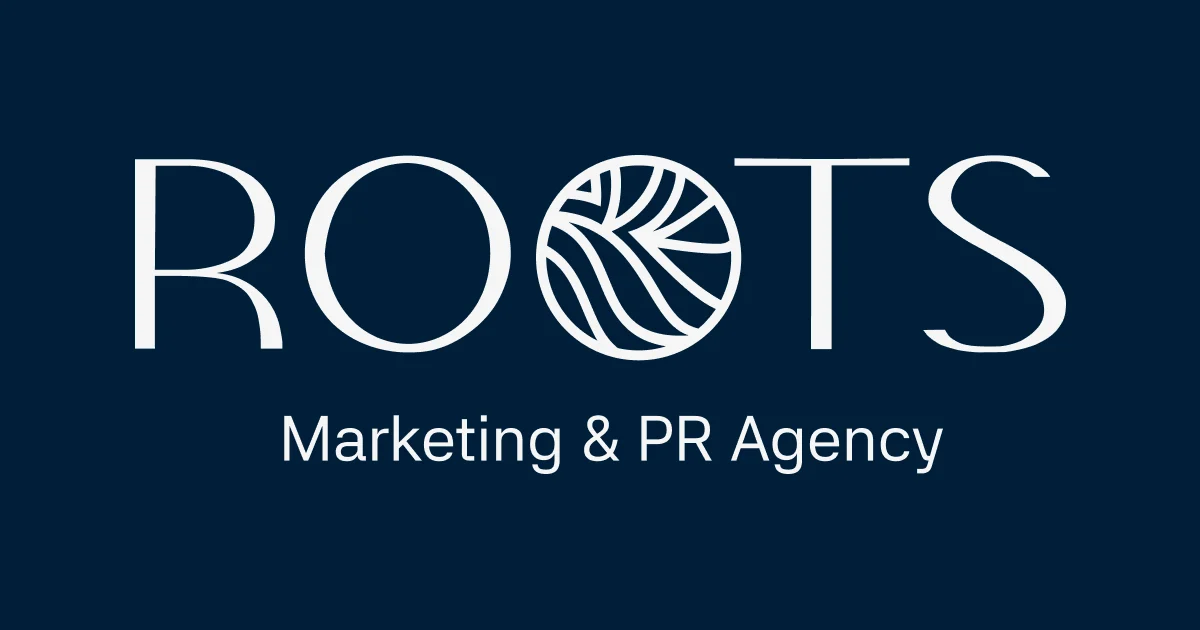
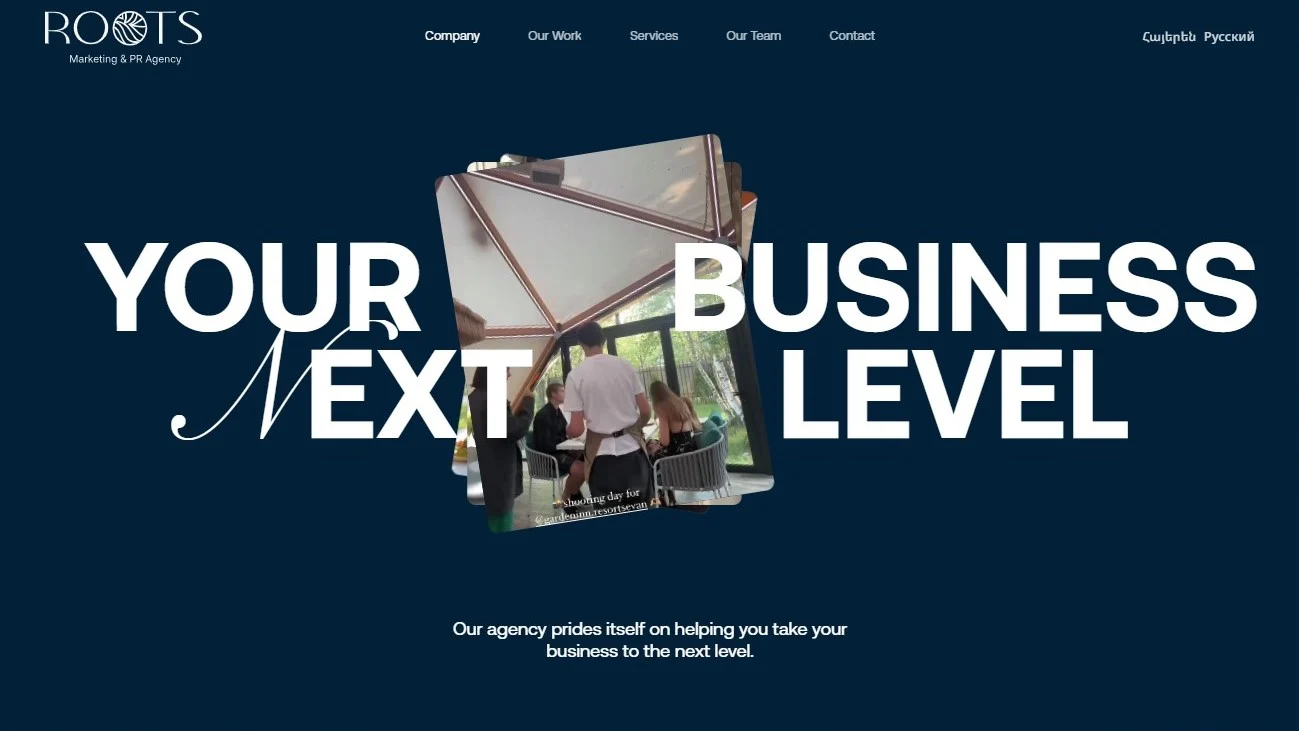
Use Roots Agency homepage screenshot for web agency detail preview.

diff --git a/index.html b/index.html
@@ -828,8 +828,8 @@
     <link href="https://assets.calendly.com/assets/external/widget.css" rel="stylesheet">
     <script src="https://assets.calendly.com/assets/external/widget.js" type="text/javascript" async></script>
     <!-- /partial:calendly -->
-    <script src="portfolio-data.js?v=11"></script>
-    <script src="script.js?v=7"></script>
+    <script src="portfolio-data.js?v=12"></script>
+    <script src="script.js?v=8"></script>
 </body>
 </html>
 

diff --git a/services/web-agency.html b/services/web-agency.html
@@ -296,8 +296,8 @@
     <link href="https://assets.calendly.com/assets/external/widget.css" rel="stylesheet">
     <script src="https://assets.calendly.com/assets/external/widget.js" type="text/javascript" async></script>
     <!-- /partial:calendly -->
-    <script src="../portfolio-data.js?v=11"></script>
-    <script src="../script.js?v=7"></script>
+    <script src="../portfolio-data.js?v=12"></script>
+    <script src="../script.js?v=8"></script>
 
     <script type="application/ld+json">
     {

diff --git a/portfolio-data.js b/portfolio-data.js
@@ -250,7 +250,7 @@ var portfolioDetails = {
             { title: 'Multilingual & deploy discipline:', description: 'Locale-prefixed routes (e.g. /hy/, /ru/) plus Cloudflare → Nginx → PHP-FPM on DigitalOcean mirror sibling portfolio demos — reproducible releases, staging subdomain, documented domain cutover path.' },
         ],
         image: 'assets/images/RootsAgency-logo.svg',
-        previewImage: 'assets/images/previews/roots-agency-hero.jpg',
+        previewImage: 'assets/images/previews/roots-agency-hero.webp',
         liveUrl: 'https://roots-agency.payam-dehkordy.com/',
     },
     'daily-cups': {

diff --git a/script.js b/script.js
@@ -119,7 +119,7 @@ function resolvePortfolioAssetPath(assetPath) {
     return (inServices ? '../' : '') + assetPath;
 }
 
-const PREVIEW_ASSET_VERSION = '2';
+const PREVIEW_ASSET_VERSION = '3';
 
 function getPortfolioPosterSrc(portfolioId, details) {
     if (details.previewImage) {